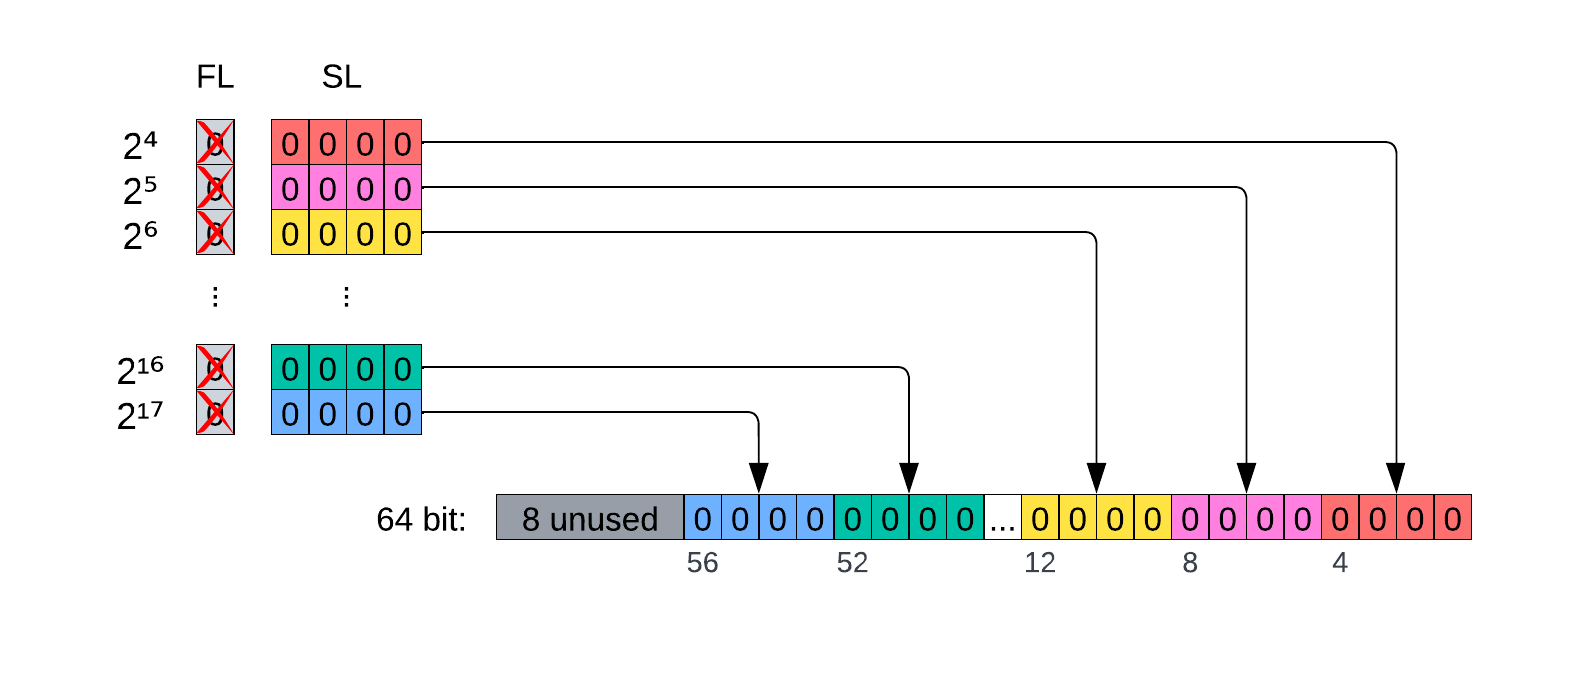
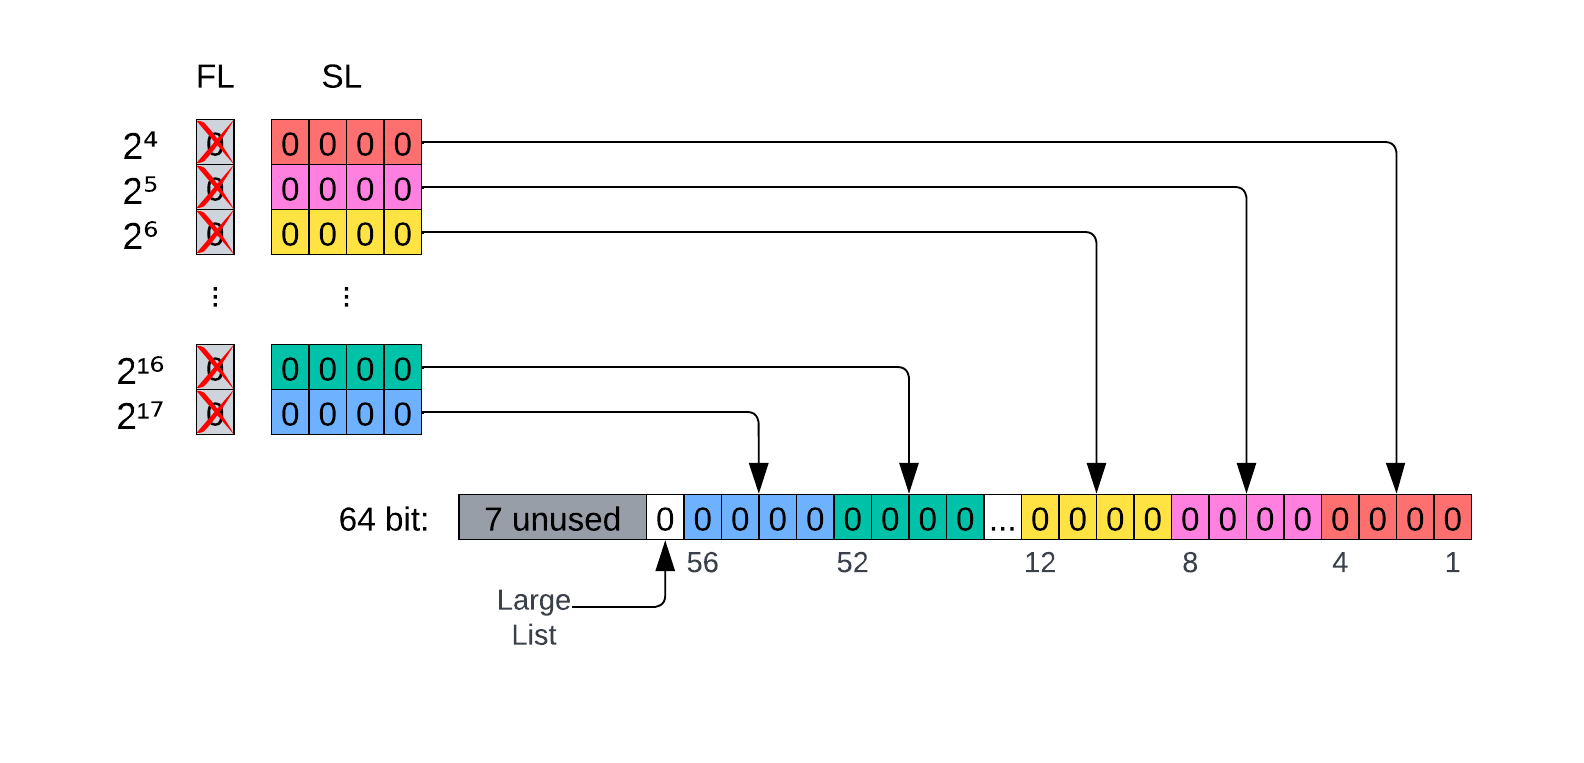
Adaptations improvements.

diff --git a/text/adaptations.tex b/text/adaptations.tex
@@ -1,9 +1,13 @@
 
-In this section we describe the adaptations that have been made to the reference implementation in order to make the allocator more suited toward being used in ZGC.
+In this section we describe the adaptations that have been made to the reference implementation of TLSF in order to make it more suited toward being used in ZGC.
+
+\subsection{Architecture}
+
+In our effort to adapt the allocator for ZGC, which runs exclusively on 64-bit systems, the allocator should also be limited to the same scope. The authors have designed TLSF primarily for 32-bit systems due to it being targeted toward real-time embedded systems, which usually operate on 32-bit architecture. However, it is important to note that while TLSF was initially designed with 32-bit systems in mind, its design principles and concepts are not inherently tied to any specific architecture. Adapting the allocator to 64-bit systems does not require any significant changes in its design, apart from aligning memory toward the allocation unit of 8 bytes for 64-bit systems instead of 4 bytes for 32-bit systems.
 
 \subsection{General and Optimized Allocator}
 
-The first and most important adaptation is re-implementing the reference implementation in a configurable manner to allow for the allocator to be extended while still maintaining a general version of it. The reason behind this is to allow using the allocator in an all-purpose manner while also having an optimized, or altered, version for a more specific purpose. Having both a general and optimized version also allows for measuring the efficacy of any adaptation in the optimized implementation to the general one.
+The first and most important adaptation is re-implementing the reference implementation in a configurable manner to allow for the allocator to be extended while still maintaining a general version of it. The reason behind this is to allow using the allocator in an all-purpose manner while also having a version which is optimized for ZGC. Additionally, having both a general and optimized version allows for measuring the efficacy of any adaptation made in the optimized implementation by comparing its performance against the general version.
 
 However, making optimizations might require changes that also changes the general version in such a way that it deviates from the reference implementation. Such trade-offs, which will be discussed in more detail later in this section, could be reasonable when supporting multiple versions of the allocator.
 
@@ -11,11 +15,15 @@ However, making optimizations might require changes that also changes the genera
 
 Since small and medium pages only allow the user to allocate in certain size ranges, we can use this to our advantage to store metadata about the allocator in a more efficient way. Small pages allow sizes in the range [16B, 256KB] and medium pages (256KB, 4MB]. We note that the allowed sizes in the medium range is a factor of 16KB larger than the small range. This allows us to limit the allocator to the size range of small page, with an additional multiplication factor of 1 for small pages and 16KB for medium pages.
 
-With the now limited allocation size range for small pages in mind, we are able to limit the number of free-lists we need and in turn the bits used in the bitmaps. We need 14 first-levels to be able to index every power of two inside the small page range, with a lower-bound of $2^4 =$ 16B and an upper-bound of $2^{17} =$ 128KB. It is desirable to store all bitmap information in a single 64-bit word for performance reasons, both in terms of cache efficiency and usage of efficient bit instructions. To stay inside the 64-bit limit we must choose the number of second-levels accordingly. For efficiency reasons again, the number of second levels should be a power of two~\cite{TLSF}, and the only value this leaves us is 4, which requires $14 * 4 =$ 56 bits.
+With the limited allocation size range for small pages in mind, we are able to limit the number of free-lists we need and in turn the bits used in the bitmaps. We need 14 first-levels to be able to index every power of two inside the small page range, with a lower-bound of $2^4 =$ 16B and an upper-bound of $2^{17} =$ 128KB. It is desirable to store all bitmap information in a single 64-bit word for performance reasons, both in terms of cache efficiency and usage of efficient bit instructions. If we want to stay inside the 64-bit limit, we must choose the number of second-levels accordingly. For efficiency reasons again, the number of second levels should be a power of two~\cite{TLSF} so that bit-shift instructions can be used. The only value this leaves us is 4, which requires $14 * 4 =$ 56 bits for storing all metadata.
 
-Combining the insight of the number of required first-levels, desire to use a single 64-bit bitmap and the number of second-levels, we can construct a new bitmap representation, as shown in Figure~\ref{fig:bitmap_flattening}. The new bitmap disregards the first-level bitmap entirely, since the new bitmap can be indexed directly using the formula: $I = FL * 4 + SL$, where $FL$ is the first-level index and $SL$ the second-level index. Additionally, the lowest size classes have been placed at the least significant bits of the bitmap to make searching for the next non-empty free-list efficient using the find-first-set bit instruction.
+Since a page is initially 2MB large, the initial block will be significantly larger than the maximum allocation size of 256KB. This means we either need to split it up into multiple blocks of smaller sizes or store it in a different free-list. To solve this we will add a last free-list that is called the "large-list", represented by the 57th bit. The large-list will store blocks that are above the largest index to support storing blocks that are initially very large.
 
-Since a page is initially 2MB large, the initial block will be significantly larger than the maximum allocation size of 256KB. This means we either need to split it up into multiple blocks of smaller sizes or store it in a different free-list. To solve this we will add a last free-list that is called the "large-list", represented by the 57th bit in the bitmap. The large-list will store blocks that are above the largest index to support storing blocks that are initially very large.
+Combining the insight of the number of required first- and second-levels, desire to use a single 64-bit bitmap and large-list, we can construct a new bitmap representation, as shown in Figure~\ref{fig:bitmap_flattening}. The new bitmap disregards the literal notion of ``Two Level'' from Two Level Segregated Fit and flattens the first- and second-level bitmaps to a single bitmap. The new bitmap is indexed using the formula: 
+\[
+    \text{index($f, s$)} = f * 4 + s
+\]
+where $f$ and $s$ are the first- and second-level indexes respectively. Additionally, the lowest size classes have been placed at the least significant bits of the bitmap to make searching for the next non-empty free-list efficient using the find-first-set bit instruction.
 
 \begin{figure}[H]
     \centering
@@ -83,7 +91,7 @@ next = get\_next\_block(current)\;
 
 \subsubsection{Block Header Adjustments}
 
-Being able to construct the allocator from livemap data moves the emphasis on calling the traditional free() method of the allocator to calling free\_range() instead. However, in cases when calling free() is still desirable, it is beneficial from a performance standpoint to not coalesce blocks immediately. Combining both of these insights, we can observe that storing a pointer to the previous physical block is no longer needed. This is becuase the previous physical pointer is only used when calling free and coalescing blocks with their physical neighbors. Following this, we will redesign the header for it to be removed in the optimized version and still kept in the general version. Furthermore, R. Jones et al~\cite[Page 103]{gchandbook} discuss that removing parts of the block header from an allocator in the context of garbage collection is a reasonable optimization approach.
+Being able to construct the allocator from livemap data moves the emphasis on calling the free() method of the allocator to calling free\_range() instead. However, in cases when calling free() is still desirable, it is beneficial from a performance standpoint to not coalesce blocks immediately. Combining both of these insights, we can observe that storing a pointer to the previous physical block is no longer needed. This is becuase the previous physical pointer is only used when calling free and coalescing blocks with their physical neighbors. Following this, we will redesign the header for it to be removed in the optimized version and still kept in the general version. Furthermore, R. Jones et al~\cite[Page 103]{gchandbook} discuss that removing parts of the block header from an allocator in the context of garbage collection is a reasonable optimization approach.
 
 % TODO: Disadventageous for small allocations, will have to be measured in practice.
 

diff --git a/text/tlsf.tex b/text/tlsf.tex
@@ -5,7 +5,7 @@ The work of the TLSF authors primarily concentrate on low-level allocation primi
 
 The name TLSF reflects its design as a free-list based allocator that uses segregated-fit, storing multiple free-lists containing blocks of set size classes. To efficiently lookup what free-list contain blocks, TLSF employs two levels of bitmaps. The first level bitmap for size classes that are separated by powers of two called first-level, and a second-level that subdivides the first-level size classes linearly. In the reference implementation, the number of first- and second-levels are both limited to 32 in order to fit in 32-bit values. Additionally, the number of second-levels are recommended to be a power of two for efficiency reasons, so that simple bit instructions can be used.
 
-Blocks within the TLSF allocator are managed using two doubly-linked list structures. Initially, blocks are arranged in a physically ordered list, and if a block becomes free, it is then inserted into an appropriate free-list. Each block is accompanied by an associated header located next to it. The header specifies the size of the block and also its position within both doubly-linked lists. There is a slight difference of what the header contains depending on if the block is free or not, where free blocks contain additional metadata, as shown in Figure~\ref{fig:blockheader_reference}. Moreover, block sizes are aligned to multiples of four to align with the allocation unit (4 bytes for a 32-bit architecture). The two least significant bits within the block header are reserved for metadata. These bits indicate whether the block is free (F-bit) and whether it represents the last block within its pool (L-bit), as depicted in Figure~\ref{fig:blockheader_reference}. The F-bit is mainly used to see if a block is free and can be coalesced and the L-bit is used to easily iterate over physical blocks.
+Allocations inside TLSF are managed using blocks. Blocks are managed using two doubly-linked list structures. Initially, blocks are arranged in a physically ordered list, and if a block becomes free, it is then inserted into an appropriate free-list. Each block is accompanied by an associated header located next to it. The header specifies the size of the block and also its position within both doubly-linked lists. There is a slight difference of what the header contains depending on if the block is free or not, where free blocks contain additional metadata, as shown in Figure~\ref{fig:blockheader_reference}. Moreover, block sizes are aligned to multiples of four to align with the allocation unit (4 bytes for a 32-bit architecture). The two least significant bits within the block header are reserved for metadata. These bits indicate whether the block is free (F-bit) and whether it represents the last block within its pool (L-bit), as depicted in Figure~\ref{fig:blockheader_reference}. The F-bit is mainly used to see if a block is free and can be coalesced and the L-bit is used to easily iterate over physical blocks.
 
 % Explain L-bit, explain what blocks are and that there initially exists one large block.
 
